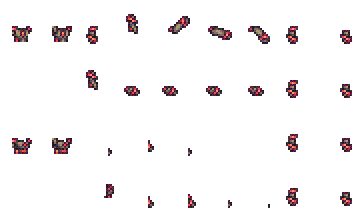
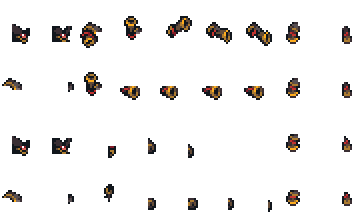
美术: 恶魔之影三件套换成现代版贴图 + 移植两套装备绘制层
头盔/胸甲/护腿共 8 张贴图换成现代版（红黑配色），并补齐现代版造型
依赖的两套自定义绘制层，否则换图后外观是残缺的：

- IExtendedHat + HatExtensionLayer：现代版头盔上半的兜帽与角单独画在
  _Extension 贴图上，只换 _Head 会变成"只戴个面罩"
- IDrawArmOverShoulderpad + FrontArmOverShoulderpadLayer：走路时露在身前的
  前臂需盖在肩甲之上。tML 1.4 起 _Arms 不再随胸甲自动加载，此前该贴图
  在本工程是死文件，现在由该层真正启用

三个 .cs 的数值与套装逻辑一行未动，只加接口实现。

diff --git a/Content/Items/Armors/Demonshade/HatExtensionLayer.cs b/Content/Items/Armors/Demonshade/HatExtensionLayer.cs
@@ -1,0 +1,60 @@
+using Microsoft.Xna.Framework;
+using Microsoft.Xna.Framework.Graphics;
+using Terraria;
+using Terraria.DataStructures;
+using Terraria.ID;
+using Terraria.ModLoader;
+namespace CalamityDemutation.Content.Items.Armors.Demonshade
+{
+    /// <summary>
+    /// 帽子附加层（移植自灾厄 HatExtensionLayer） - 挂在原版头部绘制层之后，
+    /// 由实现了 <see cref="IExtendedHat"/> 的头部装备触发：用与头部完全相同的帧号
+    /// 取附加层贴图的对应行，并按头部的颜色、旋转与染色一并绘制。
+    /// 位置对齐沿用原版头部那套算法，最后叠加实现方给出的自定义偏移。
+    /// </summary>
+    internal class HatExtensionLayer:PlayerDrawLayer
+    {
+        /// <summary>
+        /// 绘制位置：原版头部层之后
+        /// </summary>
+        public override Position GetDefaultPosition() => new AfterParent(PlayerDrawLayers.Head);
+        /// <summary>
+        /// 可见性：非残影，或玩家尚未死亡时绘制
+        /// </summary>
+        public override bool GetDefaultVisibility(PlayerDrawSet drawInfo) => drawInfo.shadow == 0f || !drawInfo.drawPlayer.dead;
+        /// <summary>
+        /// 取当前头部装备（换装槽有内容时优先取换装槽），判定是否实现 IExtendedHat；
+        /// 再校验该物品的头部装备槽与玩家当前头部槽一致，符合则追加附加层绘制数据
+        /// </summary>
+        protected override void Draw(ref PlayerDrawSet drawInfo)
+        {
+            Player drawPlayer = drawInfo.drawPlayer;
+            Item headItem = drawPlayer.armor[0];
+            if (drawPlayer.armor[10].type > ItemID.None)
+                headItem = drawPlayer.armor[10];
+            if (ModContent.GetModItem(headItem.type) is IExtendedHat extendedHat)
+            {
+                string equipSlotName = extendedHat.EquipSlotName(drawPlayer) != "" ? extendedHat.EquipSlotName(drawPlayer) : headItem.ModItem.Name;
+                int equipSlot = EquipLoader.GetEquipSlot(Mod, equipSlotName, EquipType.Head);
+                if (extendedHat.PreDrawExtension(drawInfo) && !drawInfo.drawPlayer.dead && equipSlot == drawPlayer.head)
+                {
+                    // 必须用 drawInfo.Position 而非 Player.Position，否则人物选择界面与地图上的头部层会错位
+                    Vector2 headDrawPosition = drawInfo.Position - Main.screenPosition;
+                    // 宽高取自 drawPlayer 没问题，只做居中
+                    headDrawPosition += new Vector2((drawPlayer.width - drawPlayer.bodyFrame.Width) / 2f, drawPlayer.height - drawPlayer.bodyFrame.Height + 4f);
+                    headDrawPosition = new Vector2((int)headDrawPosition.X, (int)headDrawPosition.Y);  // 取整消除逐帧抖动
+                    headDrawPosition += drawPlayer.headPosition + drawInfo.headVect;
+                    headDrawPosition += extendedHat.ExtensionSpriteOffset(drawInfo);
+                    Texture2D extraPieceTexture = ModContent.Request<Texture2D>(extendedHat.ExtensionTexture).Value;
+                    // 按玩家身体帧号取附加层对应行，与头部保持同一帧
+                    Rectangle frame = extraPieceTexture.Frame(1, 20, 0, drawPlayer.bodyFrame.Y / drawPlayer.bodyFrame.Height);
+                    DrawData pieceDrawData = new DrawData(extraPieceTexture, headDrawPosition, frame, drawInfo.colorArmorHead, drawPlayer.headRotation, drawInfo.headVect, 1f, drawInfo.playerEffect, 0)
+                    {
+                        shader = drawPlayer.dye?[0].dye ?? 0
+                    };
+                    drawInfo.DrawDataCache.Add(pieceDrawData);
+                }
+            }
+        }
+    }
+}

diff --git a/Content/Items/Armors/Demonshade/FrontArmOverShoulderpadLayer.cs b/Content/Items/Armors/Demonshade/FrontArmOverShoulderpadLayer.cs
@@ -1,0 +1,58 @@
+using Microsoft.Xna.Framework;
+using Microsoft.Xna.Framework.Graphics;
+using Terraria;
+using Terraria.DataStructures;
+using Terraria.ID;
+using Terraria.ModLoader;
+namespace CalamityDemutation.Content.Items.Armors.Demonshade
+{
+    /// <summary>
+    /// 前臂盖肩甲层（移植自灾厄 FrontArmOverShoulderpadLayer） - 挂在原版"手臂盖住手持物"层之后，
+    /// 由实现了 <see cref="IDrawArmOverShoulderpad"/> 的胸甲触发，用与身体完全相同的帧号
+    /// 取前臂贴图的对应行，重绘到肩甲之上。位置与染色均跟随身体。
+    /// </summary>
+    internal class FrontArmOverShoulderpadLayer:PlayerDrawLayer
+    {
+        /// <summary>
+        /// 绘制位置：原版手臂盖住手持物层之后
+        /// </summary>
+        public override Position GetDefaultPosition() => new AfterParent(PlayerDrawLayers.ArmOverItem);
+        /// <summary>
+        /// 可见性：非残影，或玩家尚未死亡时绘制
+        /// </summary>
+        public override bool GetDefaultVisibility(PlayerDrawSet drawInfo) => drawInfo.shadow == 0f || !drawInfo.drawPlayer.dead;
+        /// <summary>
+        /// 取当前胸甲装备（换装槽有内容时优先取换装槽），判定是否实现 IDrawArmOverShoulderpad；
+        /// 再校验该物品的身体装备槽与玩家当前身体槽一致，符合则追加前臂绘制数据
+        /// </summary>
+        protected override void Draw(ref PlayerDrawSet drawInfo)
+        {
+            Player drawPlayer = drawInfo.drawPlayer;
+            Item bodyItem = drawPlayer.armor[1];
+            if (drawPlayer.armor[11].type > ItemID.None)
+                bodyItem = drawPlayer.armor[11];
+            if (ModContent.GetModItem(bodyItem.type) is IDrawArmOverShoulderpad frontArm)
+            {
+                string equipSlotName = frontArm.EquipSlotName(drawPlayer) != "" ? frontArm.EquipSlotName(drawPlayer) : bodyItem.ModItem.Name;
+                int equipSlot = EquipLoader.GetEquipSlot(Mod, equipSlotName, EquipType.Body);
+                if (drawPlayer.body != equipSlot)
+                    return;
+                int dyeShader = drawPlayer.dye?[1].dye ?? 0;
+                // 必须用 drawInfo.Position 而非 Player.Position，否则人物选择界面与地图上会错位
+                Vector2 drawPosition = drawInfo.Position - Main.screenPosition;
+                // 宽高取自 drawPlayer 没问题，只做居中
+                drawPosition += new Vector2((drawPlayer.width - drawPlayer.bodyFrame.Width) / 2f, drawPlayer.height - drawPlayer.bodyFrame.Height + 4f);
+                drawPosition = new Vector2((int)drawPosition.X, (int)drawPosition.Y);  // 取整消除逐帧抖动
+                drawPosition += drawPlayer.bodyPosition + drawInfo.bodyVect;
+                Texture2D extraPieceTexture = ModContent.Request<Texture2D>(frontArm.FrontArmTexture).Value;
+                // 按玩家身体帧号取前臂贴图对应行，与身体保持同一帧
+                Rectangle frame = extraPieceTexture.Frame(1, 20, 0, drawPlayer.bodyFrame.Y / drawPlayer.bodyFrame.Height);
+                DrawData pieceDrawData = new DrawData(extraPieceTexture, drawPosition, frame, drawInfo.colorArmorBody, drawPlayer.fullRotation, drawInfo.bodyVect, 1f, drawInfo.playerEffect, 0)
+                {
+                    shader = dyeShader
+                };
+                drawInfo.DrawDataCache.Add(pieceDrawData);
+            }
+        }
+    }
+}

diff --git a/Content/Items/Armors/Demonshade/DemonshadeHelm.cs b/Content/Items/Armors/Demonshade/DemonshadeHelm.cs
@@ -1,5 +1,7 @@
 using CalamityDemutation.Players;
+using Microsoft.Xna.Framework;
 using Terraria;
+using Terraria.DataStructures;
 using Terraria.ModLoader;
 namespace CalamityDemutation.Content.Items.Armors.Demonshade
 {
@@ -8,9 +10,11 @@ namespace CalamityDemutation.Content.Items.Armors.Demonshade
     /// 提供召唤栏、通用伤害与暴击加成；套装激活后置位 demonshadeSetBonus、redDevil，
     /// 并维持一只友方红魔，套装效果最终在 CalamityDemutationPlayer 与
     /// CalamityDemutationGlobalNPC 中结算。
+    /// 另实现 IExtendedHat：现代版头盔造型的兜帽与角单独画在 _Extension 贴图上，
+    /// 由 HatExtensionLayer 在原版头部层之后叠加绘制。
     /// </summary>
     [AutoloadEquip(EquipType.Head)]
-    internal class DemonshadeHelm:ModItem
+    internal class DemonshadeHelm:ModItem, IExtendedHat
     {
         /// <summary>
         /// 物品基础属性：尺寸、价值、防御与月后自定义稀有度
@@ -23,6 +27,15 @@ namespace CalamityDemutation.Content.Items.Armors.Demonshade
             Item.defense = 55; //15（原值记录，当前实际生效 55）
             Item.GetGlobalItem<CalamityDemutationGlobalItem>().postMoonLordRarity = 16;  // 月后稀有度 16 级，名称颜色为品红
         }
+        /// <summary>
+        /// 附加层贴图路径：现代版恶魔之影头盔上半的兜帽与角画在这张 40×1200（20 帧 × 40×60）的贴图上，
+        /// 由 HatExtensionLayer 在头部绘制完成后叠加
+        /// </summary>
+        public string ExtensionTexture => "CalamityDemutation/Content/Items/Armors/Demonshade/DemonshadeHelm_Extension";
+        /// <summary>
+        /// 附加层相对头部的偏移：整层上移 4 像素（附加层每帧高 60，比头部的 56 高 4）
+        /// </summary>
+        public Vector2 ExtensionSpriteOffset(PlayerDrawSet drawInfo) => new Vector2(0f, -4f);
         /// <summary>
         /// 判定是否集齐恶魔之影套三件（胸甲 + 护腿）
         /// </summary>

diff --git a/Content/Items/Armors/Demonshade/IExtendedHat.cs b/Content/Items/Armors/Demonshade/IExtendedHat.cs
@@ -1,0 +1,35 @@
+using Microsoft.Xna.Framework;
+using Terraria;
+using Terraria.DataStructures;
+namespace CalamityDemutation.Content.Items.Armors.Demonshade
+{
+    /// <summary>
+    /// 可扩展帽子接口（移植自灾厄 IExtendedHat） - 由装备在头部槽位的物品实现，
+    /// 让该头盔在原版头部绘制完成后，再额外叠加一张附加层贴图。
+    /// 用于标准 _Head.png（固定 20 帧 × 40×56）塞不下的造型，
+    /// 例如恶魔之影头盔上半的兜帽与角就单独画在 _Extension 贴图里。
+    /// 实际绘制见 <see cref="HatExtensionLayer"/>。
+    /// </summary>
+    internal interface IExtendedHat
+    {
+        /// <summary>
+        /// 附加层贴图路径
+        /// </summary>
+        string ExtensionTexture { get; }
+        /// <summary>
+        /// 附加层相对头部的像素偏移。自动绘制时头部挂载点的偏移已由绘制层处理，
+        /// 这里只需给附加层自身的额外位移
+        /// </summary>
+        Vector2 ExtensionSpriteOffset(PlayerDrawSet drawInfo);
+        /// <summary>
+        /// 返回 true 表示由绘制层按 <see cref="ExtensionTexture"/> 与 <see cref="ExtensionSpriteOffset"/> 自动绘制；
+        /// 返回 false 表示实现方自行绘制附加层
+        /// </summary>
+        bool PreDrawExtension(PlayerDrawSet drawInfo) => true;
+        /// <summary>
+        /// 物品对应的头部装备槽名；留空则取物品名。
+        /// 同一物品拥有多张头部贴图时用于区分具体画哪一张
+        /// </summary>
+        string EquipSlotName(Player drawPlayer) => "";
+    }
+}

diff --git a/Content/Items/Armors/Demonshade/DemonshadeBreastplate.cs b/Content/Items/Armors/Demonshade/DemonshadeBreastplate.cs
@@ -7,10 +7,17 @@ namespace CalamityDemutation.Content.Items.Armors.Demonshade
     /// 恶魔之影胸甲（DemonshadeBreastplate） - 恶魔之影套（Demonshade）胸部防具
     /// 提供巨额生命/魔力上限、通用伤害、暴击与近战攻速，并附带高额荆棘反伤；
     /// 装备时置位 shadeRegen，最终在 CalamityDemutationPlayer.UpdateLifeRegen 中结算生命回复。
+    /// 另实现 IDrawArmOverShoulderpad：走路时露出身前的前臂需要盖在肩甲之上，
+    /// 单独由 _Arms 贴图提供，由 FrontArmOverShoulderpadLayer 重绘。
     /// </summary>
     [AutoloadEquip(EquipType.Body)]
-    internal class DemonshadeBreastplate:ModItem
+    internal class DemonshadeBreastplate:ModItem, IDrawArmOverShoulderpad
     {
+        /// <summary>
+        /// 前臂贴图路径：肩甲会盖住走路时露在身前的前臂，故用这张 40×1120（20 帧 × 40×56）的
+        /// 前臂贴图在肩甲之上重绘。tML 1.4 起 _Arms 不再随胸甲自动加载，只有本接口对应的绘制层会用到它
+        /// </summary>
+        public string FrontArmTexture => "CalamityDemutation/Content/Items/Armors/Demonshade/DemonshadeBreastplate_Arms";
         /// <summary>
         /// 物品基础属性：尺寸、价值、防御与月后自定义稀有度
         /// </summary>

diff --git a/Content/Items/Armors/Demonshade/IDrawArmOverShoulderpad.cs b/Content/Items/Armors/Demonshade/IDrawArmOverShoulderpad.cs
@@ -1,0 +1,23 @@
+using Terraria;
+namespace CalamityDemutation.Content.Items.Armors.Demonshade
+{
+    /// <summary>
+    /// 前臂盖肩甲接口（移植自灾厄 IDrawArmOverShoulderpad） - 由胸甲实现，
+    /// 用于把走路时露在身前的那条手臂重绘在肩甲之上，避免前臂被肩甲挡住。
+    /// 注意：tModLoader 1.4 起 _Arms.png 不再随 AutoloadEquip(EquipType.Body) 自动加载
+    /// （1.4 把 Body / Arms / FemaleBody 三张合并进单张 360×224 的 _Body.png），
+    /// 因此这张前臂贴图只有靠本接口对应的绘制层才会被使用。
+    /// 实际绘制见 <see cref="FrontArmOverShoulderpadLayer"/>。
+    /// </summary>
+    internal interface IDrawArmOverShoulderpad
+    {
+        /// <summary>
+        /// 前臂贴图路径；尺寸需与常规装备贴图一致（40×1120，即 20 帧 × 40×56）
+        /// </summary>
+        string FrontArmTexture { get; }
+        /// <summary>
+        /// 物品对应的身体装备槽名；留空则取物品名
+        /// </summary>
+        string EquipSlotName(Player drawPlayer) => "";
+    }
+}
